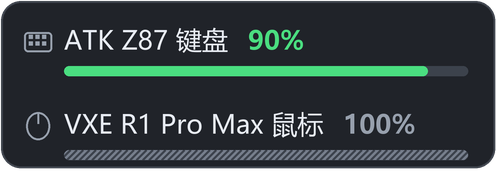
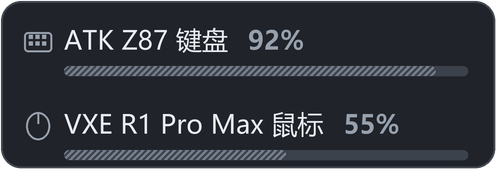
v1.0.2: 电量配色改为 >=80 绿 / 20-79 黄 / <20 红

diff --git a/render.py b/render.py
@@ -38,7 +38,8 @@ def _font(size, bold=False):
 def _trailing(state, level, last):
     """设备名后面的文字：正常显示百分比；休眠显示上次读到的百分比（灰色）+ 斜纹条。"""
     if state == "ok" and level is not None:
-        color = GOOD if level >= 60 else (WARN if level >= 20 else BAD)
+        # 用户要求（2026-10-25）：>=80 绿、20..79 黄、<20 红
+        color = GOOD if level >= 80 else (WARN if level >= 20 else BAD)
         return color, f"{level}%"
     if state == "sleep":
         return SUB, (f"{last}%" if last is not None else "--")

diff --git a/README.md b/README.md
@@ -18,6 +18,7 @@
 - **自动钉在任务栏**：Win11 默认把新图标塞进 `^` 隐藏区，本工具启动时发现被收进去会自己出来
 - **键盘 + 鼠标电量**：直接和 2.4G 接收器对话，**不依赖任何厂商驱动**
 - **右上角圆形刷新键**：面板顶上一个圆按钮，点一下立刻重读电量，不用翻菜单
+- **电量配色**：**≥80% 绿色**、**20–79% 黄色**、**<20% 红色**，一眼看出要不要充电
 - **休眠也显示电量**：读不到时显示上次读到的百分比（灰色）+ 斜纹电量条，一看就知道是旧数据而不是没电
 - **WASD ↔ 方向键 互换**：面板开关或全局热键，随时可撤，**不修改键盘固件**
 - **热键可自定义**：设置里点「录制」，Ctrl / Alt / Shift / Win 随你叠几层，也能关掉
@@ -125,6 +126,12 @@ config.py     %APPDATA%\设备电量\config.json
 autostart.py  HKCU Run 开机自启
 plugins/      用户插件目录
 ```
+
+## 更新日志
+
+- **v1.0.2**（2026-10-25）：电量配色改为 **≥80% 绿 / 20–79% 黄 / <20% 红**（原来 60% 才变绿）
+- **v1.0.1**（2026-10-20）：弹框固定贴图标不跟鼠标、启动自动钉回任务栏、`^` 隐藏区不误弹、休眠显示灰数字 + 斜纹条
+- **v1.0.0**（2026-10-20）：首个版本
 
 ## 致谢
 
